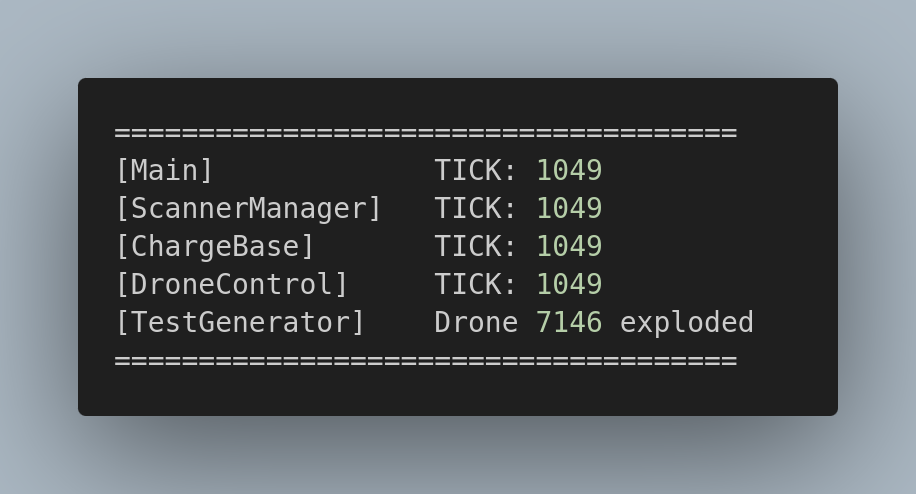
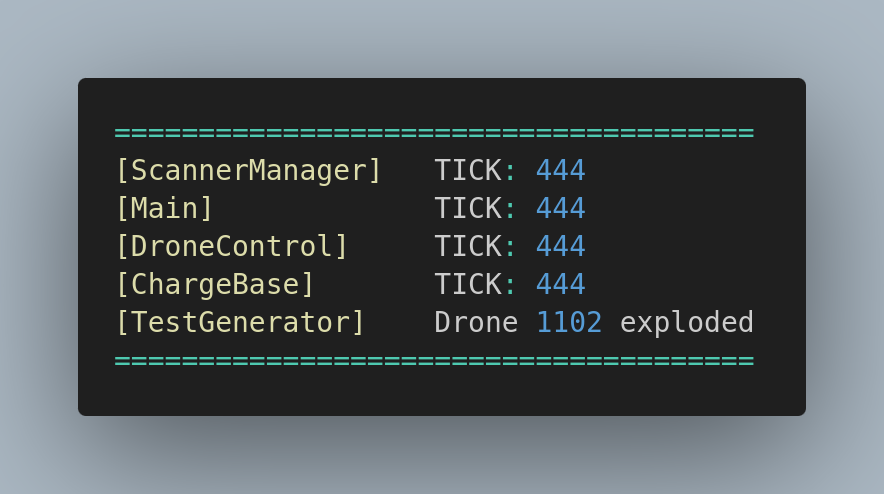
Update Relazione.md
- Add images
- Fix some typos

diff --git a/res/doc/Relazione.md b/res/doc/Relazione.md
@@ -3,71 +3,66 @@
 - [Indice](#indice)
 - [DroneControlSystem](#dronecontrolsystem)
 - [Descrizione generale](#descrizione-generale)
-	- [Fini del sistema](#fini-del-sistema)
-	- [Modello concettuale ed illustrazione del sistema](#modello-concettuale-ed-illustrazione-del-sistema)
-		- [Modello concettuale del sistema](#modello-concettuale-del-sistema)
-		- [Struttura dell'area sorvegliata](#struttura-dellarea-sorvegliata)
-		- [Stati del sistema](#stati-del-sistema)
-		- [Stati di guasto dei droni e TestGenerator](#stati-di-guasto-dei-droni-e-testgenerator)
-		- [Visualizzare il sistema](#visualizzare-il-sistema)
-			- [Area da sorvegliare](#area-da-sorvegliare)
-			- [To starting line](#to-starting-line)
-			- [Working](#working)
-			- [To base](#to-base)
-			- [Contesto del sistema](#contesto-del-sistema)
+  - [Fini del sistema](#fini-del-sistema)
+  - [Modello concettuale ed illustrazione del sistema](#modello-concettuale-ed-illustrazione-del-sistema)
+    - [Modello concettuale del sistema](#modello-concettuale-del-sistema)
+    - [Struttura dell'area sorvegliata](#struttura-dellarea-sorvegliata)
+    - [Stati del sistema](#stati-del-sistema)
+    - [Stati di guasto dei droni e TestGenerator](#stati-di-guasto-dei-droni-e-testgenerator)
+    - [Visualizzare il sistema](#visualizzare-il-sistema)
+      - [Area da sorvegliare](#area-da-sorvegliare)
+      - [To starting line](#to-starting-line)
+      - [Working](#working)
+      - [To base](#to-base)
+      - [Contesto del sistema](#contesto-del-sistema)
 - [User requirements](#user-requirements)
-	- [Use case utente](#use-case-utente)
+  - [Use case utente](#use-case-utente)
 - [System requirements](#system-requirements)
-	- [Architectural system diagram](#architectural-system-diagram)
-	- [Activity diagram creazione Wave e droni](#activity-diagram-creazione-wave-e-droni)
-	- [State diagram Drone](#state-diagram-drone)
-	- [Message sequence chart diagram carica Drone](#message-sequence-chart-diagram-carica-drone)
-- [Monitors](#monitors)
-		- [WaveCoverageMonitor](#wavecoveragemonitor)
-		- [AreaCoverageMonitor](#areacoveragemonitor)
-		- [Drone Charge](#drone-charge)
-		- [Drone Recharge](#drone-recharge)
-		- [System Performance](#system-performance)
+  - [Architectural system diagram](#architectural-system-diagram)
+  - [Activity diagram creazione Wave e droni](#activity-diagram-creazione-wave-e-droni)
+  - [State diagram Drone](#state-diagram-drone)
+  - [Message sequence chart diagram carica Drone](#message-sequence-chart-diagram-carica-drone)
+- [Monitors](#monitors) - [WaveCoverageMonitor](#wavecoveragemonitor) - [AreaCoverageMonitor](#areacoveragemonitor) - [Drone Charge](#drone-charge) - [Drone Recharge](#drone-recharge) - [System Performance](#system-performance)
 - [Implementation](#implementation)
-	- [Implementazione software](#implementazione-software)
-	- [_Outsourcing_](#outsourcing)
-	- [Implementare il sistema](#implementare-il-sistema)
-		- [Componente ChargeBase](#componente-chargebase)
-		- [Componente ScannerManager](#componente-scannermanager)
-		- [Componente DroneControl](#componente-dronecontrol)
-		- [Componente Drone](#componente-drone)
-		- [Componente Wave](#componente-wave)
-		- [Componente TestGenerator](#componente-testgenerator)
-		- [Componente Database](#componente-database)
-		- [Altre componenti](#altre-componenti)
-			- [Componente Main](#componente-main)
-	- [Schema del Database](#schema-del-database)
-		- [Tab `drone_logs`](#tab-drone_logs)
-		- [Tab `wave_coverage_logs`](#tab-wave_coverage_logs)
-		- [Tab `area_coverage_logs`](#tab-area_coverage_logs)
-		- [Tab `system_performance_logs`](#tab-system_performance_logs)
-		- [Tab `drone_charge_logs`](#tab-drone_charge_logs)
-		- [Tab `drone_recharge_logs`](#tab-drone_recharge_logs)
-	- [Connessioni Redis](#connessioni-redis)
+  - [Implementazione software](#implementazione-software)
+  - [_Outsourcing_](#outsourcing)
+  - [Implementare il sistema](#implementare-il-sistema)
+    - [Componente ChargeBase](#componente-chargebase)
+    - [Componente ScannerManager](#componente-scannermanager)
+    - [Componente DroneControl](#componente-dronecontrol)
+    - [Componente Drone](#componente-drone)
+    - [Componente Wave](#componente-wave)
+    - [Componente TestGenerator](#componente-testgenerator)
+    - [Componente Database](#componente-database)
+    - [Altre componenti](#altre-componenti)
+      - [Componente Main](#componente-main)
+  - [Schema del Database](#schema-del-database)
+    - [Tab `drone_logs`](#tab-drone_logs)
+    - [Tab `wave_coverage_logs`](#tab-wave_coverage_logs)
+    - [Tab `area_coverage_logs`](#tab-area_coverage_logs)
+    - [Tab `system_performance_logs`](#tab-system_performance_logs)
+    - [Tab `drone_charge_logs`](#tab-drone_charge_logs)
+    - [Tab `drone_recharge_logs`](#tab-drone_recharge_logs)
+  - [Connessioni Redis](#connessioni-redis)
 - [Risultati Sperimentali](#risultati-sperimentali)
-	- [Correttezza del sistema \[?\]](#correttezza-del-sistema-)
-		- [Avvio del sistema](#avvio-del-sistema)
-		- [Vita completa dei droni](#vita-completa-dei-droni)
-	- [TestGenerator comparato a DB](#testgenerator-comparato-a-db)
-		- [Scenario _Everything is fine_](#scenario-everything-is-fine)
-		- [Scenario _Drone failure_](#scenario-drone-failure)
-		- [Scenario _High consumption_](#scenario-high-consumption)
-		- [Scenario _Charge rate mulfunction_](#scenario-charge-rate-mulfunction)
-		- [Scenario _Connection lost_](#scenario-connection-lost)
-	- [Monitor](#monitor)
-		- [Copertura dell'area](#copertura-dellarea)
-		- [Consumo anomalo](#consumo-anomalo)
-		- [Ricarica anomala](#ricarica-anomala)
-		- [Performance del sistema](#performance-del-sistema)
+  - [Correttezza del sistema \[?\]](#correttezza-del-sistema-)
+    - [Avvio del sistema](#avvio-del-sistema)
+    - [Vita completa dei droni](#vita-completa-dei-droni)
+  - [TestGenerator comparato a DB](#testgenerator-comparato-a-db)
+    - [Scenario _Everything is fine_](#scenario-everything-is-fine)
+    - [Scenario _Drone failure_](#scenario-drone-failure)
+    - [Scenario _High consumption_](#scenario-high-consumption)
+    - [Scenario _Charge rate mulfunction_](#scenario-charge-rate-mulfunction)
+    - [Scenario _Connection lost_](#scenario-connection-lost)
+  - [Monitor](#monitor)
+    - [Copertura dell'area](#copertura-dellarea)
+    - [Consumo anomalo](#consumo-anomalo)
+    - [Ricarica anomala](#ricarica-anomala)
+    - [Performance del sistema](#performance-del-sistema)
 
 # DroneControlSystem
 
-_DroneControlSystem_ è un progetto simulante un sistema di sorveglianza basato su droni volanti che monitorano un'area di $6×6\\mathrm{Km}$.
+_DroneControlSystem_ è un progetto simulante un sistema di sorveglianza basato su droni volanti che monitorano un'area di $6×6\ \mathrm{Km}$.
 
 Il sistema è sviluppato come progetto d'esame per [Ingegneria del software](https://corsidilaurea.uniroma1.it/it/view-course-details/2023/29923/20190322090929/1c0d2a0e-d989-463c-a09a-00b823557edd/8e637351-4a3a-47a1-ab11-dfe4ad47e446/4f7bd2b2-2f8e-4c38-b15f-7f3c310550b6/8bcc378c-9ff1-4263-87b7-04a394485a9f?guid_cv=8e637351-4a3a-47a1-ab11-dfe4ad47e446&current_erogata=1c0d2a0e-d989-463c-a09a-00b823557edd), corso tenuto dal prof [Enrico Tronci](https://corsidilaurea.uniroma1.it/it/users/enricotronciuniroma1it) a [La Sapienza](https://www.uniroma1.it/), ed è basato sul progetto gentilmente proposto dal prof nel `main.pdf` [qui](https://drive.google.com/drive/folders/15HrKGosqsuBBe8qWCm1qB_PvIbRLohqZ), al punto _4.2 Controllo formazione droni_.
 
@@ -107,10 +102,12 @@ La **`ChargeBase`** è l'unico punto dell'intera area in cui i droni si trovano 
 
 L'area da sorvegliare è un quadrato di $6\times6\mathrm{\ Km}$ $(36\ \mathrm{Km^2})$, suddiviso in una griglia regolare composta da quadrati di lato $20\mathrm{m}$ ciascuno. La griglia ha quindi $300$ righe e $300$ colonne, ed un totale di $90.000$ quadrati.
 
-Partendo dalla richiesta della traccia abbiamo pensato di vedere questi quadrati come delle _celle_ con al proprio centro il punto da verificare per il drone. Quest'ultimo condivide infatti l'istante di tempo $t$ in cui è coperto con ogni altro punto nella cella, facendo sì che al passaggio del drone sul punto al $t$-esimo istante di tempo, l'intera area del quadrato della griglia risulti simultaneamente coperta - dove il tempo è rappresentato, nel nostro sistema, da un'unità di tempo chiamata `tick` (un tick equivale ad un numero preciso di secondi che vedremo dopo).
+Partendo dalla richiesta della traccia abbiamo pensato di vedere questi quadrati come delle _celle_ con al proprio centro il punto da verificare per il drone. Quest'ultimo condivide infatti l'istante di tempo $t$ in cui è coperto con ogni altro punto nella cella, facendo sì che al passaggio del drone sul punto al $t$-esimo istante di tempo, l'intera area del quadrato della griglia risulti simultaneamente coperta - dove il tempo è rappresentato, nel nostro sistema, da un'unità di tempo chiamata `tick` (un tick equivale a $2.4\ \mathrm{s}$).
 Chiamiamo quindi `starting_line` la colonna di celle coincidenti col lato sinistro dell'area.
 
 Per rispettare il requisito di sorveglianza di ogni punto almeno ogni $5$ minuti, raggruppiamo i droni in gruppi di $300$ che chiamiamo **onde**. Una volta formata l'onda, questa parte dalla base verso la `starting_line`, ovviamente i droni si muoveranno in diagonale e quindi non tutti arriveranno alla `starting_line` allo stesso istante.
+
+È importante considerare che i primi $212$ sono quelli in cui i droni raggiungono la `starting_line`, e non sono dedicati alla verifica dei punti.
 
 Quando ogni drone è arrivato alla `starting_line`, l'onda parte col sorvegliare l'area. Questo processo si ripete ogni cinque minuti. È importante notare come il momento in cui l'ultimo drone della nuova onda arriva alla `starting_line` coincide col momento in cui l'onda precedente avrà lavorato per esattamente cinque minuti.
 
@@ -137,7 +134,7 @@ Facciamo ora ordine circa i possibili stati di un drone:
    Quando un drone/onda (possiamo usare i termini in maniera intercambiabile, perché il movimento di un drone è equivalente a quello di un'onda) raggiunge il lato destro dell'area, termina il suo lavoro di verifica dei punti copertura dell'area, e passa allo stato `TO_BASE`. In questo stato non fa altro che tornare verso il **centro** dell'area per ricaricarsi, ed essere riutilizzato in un nuovo viaggio di copertura.
 
 5. **Ricarica droni (`CHARGING`)**  
-   Giunti alla base, i droni vengono ricaricati da `ChargeBase`. In particolare, esso è composto da slot che accolgono i droni che vengono a ricaricarsi - uno slot per drone. Il tempo di ricarica, come richiesto dal requisito di progetto, ha una durata nell'intervallo di $[2,3]\ h$ (questo valore è rigenerato ad ogni nuova ricarica del drone).
+   Giunti alla base, i droni vengono ricaricati da `ChargeBase`. In particolare, esso è composto da slot che accolgono i droni che vengono a ricaricarsi - uno slot per drone. Il tempo di ricarica, come richiesto dal requisito di progetto, ha una durata nell'intervallo di $[2,3]\ h$ (questo valore è rigenerato ad ogni nuova ricarica del drone), che corrispondono rispettivamente a $3000$ e $4500$ tick.
 
 6. **Attesa in base (`IDLE`)**  
    A carica completa (e non prima), i droni sono messi a disposizione di `ScannerManager` per essere riusati nel creare una nuova onda.
@@ -892,51 +889,61 @@ Eccole qui elencate:
 
 Per verificare il corretto funzionamento del sistema, abbiamo tenuto conto di diversi parametri, e osservato i dati di diverse simulazioni. Prendendo in esame una delle simulazioni più rappresentative, ossia una di quelle in cui si verifichino tutti gli scenari del TestGenerator, abbiamo constatato, comparando l'output del sistema/monitor coi dati nel DB, in primis la correttezza delle informazioni visualizzate ambo i lati, e poi quanto e come il sistema performasse.
 
-## Correttezza del sistema [?]
+## Correttezza del sistema
 
 ### Avvio del sistema
 
-avvio e qualche tick
+Quando avviamo il sistema i componenti princiapli vengono creati e sincronizzati tra loro per poter avviare la simulazione. Successivamente, dopo la connessione al Database e alla creazione dell'onda, ci troviamo di fronte alla vista dei tick che scorrono ad indicare l'avvenuto avvio della simulazione.
 
-<img src="../med/log/00_system_start.png" alt="alt text" style="zoom: 50%;" />
+<img src="../med/log/00_system_start.png" alt="syst_start" style="zoom: 50%;" />
 
 ### Vita completa dei droni
 
 Di seguito verifichiamo che il sistema faccia funzionare correttamente i droni, infatti per un determinato drone possiamo osservare la presenza di tutti i suoi stati a partire da `To_Starting_Line`, che indica una suo corretto "avviamento", fino a `Charging`, che indica come il drone sia riuscito o ritornare alla base ed a iniziare il processo di ricarica (e l'eventuale `Charging_Completed`).
 
+<img src="../med/db/drone_to_line.png" alt="drone_to_line"/>
+
+<img src="../med/db/drone_ready-wrk.png" alt="drone_to_line"/>
+
+<img src="../med/db/drone_to_base.png" alt="drone_to_line"/>
+
+<img src="../med/db/drone_chrg.png" alt="drone_to_line"/>
+
 ## TestGenerator comparato a DB
 
-Di seguito osserviamo come nel DB siano stati inseriti i dati di interesse. Poniamo l'attenzione su ogni sequenza di avvenimenti in cui il `TestGenerator` ha generato uno scenario (che non fosse _Everything is fine_), l'output della shell lo ha stampato a video, e il sistema ha scritto nelle opportune tabelle del DB i giusti valori che rispecchiassero l'accaduto.
+Osserviamo adesso come nel DB siano stati inseriti i dati di interesse. Poniamo l'attenzione su ogni sequenza di avvenimenti in cui il `TestGenerator` ha generato uno scenario (che non fosse _Everything is fine_), l'output della shell lo ha stampato a video, e il sistema ha scritto nelle opportune tabelle del DB i giusti valori che rispecchiassero l'accaduto.
 
 ### Scenario _Everything is fine_
 
 Scenario di default in cui tutto funziona senza anomalie. Viene impostato come funzione vuota per il 20% del valore della mappa.
 Per vedere che si sia verificato basta guardare l'output loggato di `drone_logs` in cui i tick si succedono normalmente.
 
-|<img src="../med/log/01_every_is_fine.png" style="zoom: 27%;">|<img src="../med/db/01_every_is_fine.png" style="zoom: 63%;">|
-|-|-|
+| <img src="../med/log/01_every_is_fine.png" style="zoom: 27%;"> | <img src="../med/db/every_is_fine.png" style="zoom: 63%;"> |
+| -------------------------------------------------------------- | ------------------------------------------------------------- |
 
 ### Scenario _Drone failure_
 
-Viene selezionato un drone casuale che "esplode" (o cessa di funzionare). Il suo stato viene impostato su "DEAD" e viene inviato un messaggio a `ScannerManager` per aggiornare il suo stato.
-Confrontiamo l'output del terminale con le tabelle _tab1_ e _tab2_ nel DB
+Viene selezionato un drone casuale che "esplode" (o cessa di funzionare). Il suo stato viene impostato su `DEAD` da `ScannerManager`.
 
-| <img src="../med/log/02_drone_exploded.png" style="zoom: 60%;"> | <img src="../med/db/02_drone_exploded.png" style="zoom : 103%;"> |
+| <img src="../med/log/02_drone_exploded.png" style="zoom: 60%;"> | <img src="../med/db/drone_exploded.png" style="zoom : 103%;"> |
 | --------------------------------------------------------------- | ---------------------------------------------------------------- |
+
 
 ### Scenario _High consumption_
 
-Viene scelto un drone casuale e viene aumentato il suo consumo di energia (tra 1.5 e 2 volte rispetto al normale). Un messaggio viene inviato a `ScannerManager` per impostare il fattore di consumo elevato del drone.
+Viene scelto un drone casuale e viene aumentato il suo consumo di energia (tra 1.5 e 2 volte rispetto al normale). `ScannerManager` imposta perciò il fattore di consumo elevato del drone.
 
-| <img src="../med/log/02_drone_exploded.png" style="zoom: 60%;"> | <img src="../med/db/02_drone_exploded.png" style="zoom : 103%;"> |
-| --------------------------------------------------------------- | ---------------------------------------------------------------- |
+| <img src="../med/log/03_drone_high_cons.png"> | <img src="../med/db/drone_exploded.png"> |
+| --------------------------------------------- | ---------------------------------------- |
 
-### Scenario _Charge rate mulfunction_
+<img src="../med/db/drone_charge_mon.png">
+
+### Scenario _Charge rate malfunction_
 
 Viene scelto un drone casuale dalla lista `charging_drones` in Redis e viene aumentato il suo rate di carica. Un messaggio viene inviato alla `ChargeBase` per impostare il fattore di carica.
 
-| <img src="../med/log/02_drone_exploded.png" style="zoom: 60%;"> | <img src="../med/db/02_drone_exploded.png" style="zoom : 103%;"> |
-| --------------------------------------------------------------- | ---------------------------------------------------------------- |
+<img src="../med/log/07_drone_recharge_mon.png"> 
+<img src="../med/db/drone_recharge_mon.png">
 
 ### Scenario _Connection lost_
 
@@ -946,25 +953,31 @@ Lo scenario **Connection_lost** comporta due sotto-scenari:
 
 2. **Drone si riconnetterà**: se la probabilità di riconnessione è del 70% o superiore, il drone verrà riconnesso dopo un certo numero di tick, calcolato casualmente (usando `reconnect_tick`). Anche in questo caso, un messaggio a `ScannerManager` aggiorna lo stato del drone su "DISCONNECTED" con il tempo di riconnessione impostato.
 
-| <img src="../med/log/02_drone_exploded.png" style="zoom: 60%;"> | <img src="../med/db/02_drone_exploded.png" style="zoom : 103%;"> |
-| --------------------------------------------------------------- | ---------------------------------------------------------------- |
+<img src="../med/log/05_drone_reconn.png">
+<img src="../med/db/drone_reconn_mon.png">
 
 ## Monitor
+
 Andando più sul concreto, iniziamo a snocciolare qualche dato, partendo dai monitor e dalla loro osservazione.
 
 ### Copertura dell'area
-Per quanto riguarda la verifica dei punti dell'area, i due monitor [WaveCoverageMonitor](#wavecoveragemonitor) e [AreaCoverageMonitor](#areacoveragemonitor) ci permettono di verificare la corretta copertura dell'area.
 
-È importante considerare che i primi _[inserire numero di tick]_  tick l'area non può essere verificata, questo perché inizialmente i droni devono partire dalla base e raggiungere la `starting_line` per poter poi effettivamente iniziare il processo di verifica, e quindi i primi _[inserire numero di tick]_ tick non saranno mai riportati dal monitor.  
+Per quanto riguarda la verifica dei punti dell'area, i due monitor [WaveCoverageMonitor](#wavecoveragemonitor) e [AreaCoverageMonitor](#areacoveragemonitor) ci permettono di verificare la corretta copertura dell'area.
 
 Inoltre, fino a quando la prima onda non avrà terminato di lavorare, [AreaCoverageMonitor](#areacoveragemonitor) riporterà la mancata copertura su quei punti non acora verificati da questa prima ondo.
 
-Per questa esecuzione del sistema che abbiamo deciso di analizzare, possiamo osservare come, a causa dell'input ricevuto da TestGenerator, il drone _[Inserire drone id]_ abbia smesso di funzionare correttamente; quindi il monitor [WaveCoverageMonitor](#wavecoveragemonitor) giustamente riporta che dal tick _[inserire tick]_ al tick _[inserire tick]_ l'onda _[inserire wave id]_ abbia avuto un drone che ha mancato la verifica dei propri punti.
+Per questa esecuzione del sistema che abbiamo deciso di analizzare, possiamo osservare come, a causa dell'input ricevuto da TestGenerator, il drone $1102$ abbia smesso di funzionare correttamente; quindi il monitor [WaveCoverageMonitor](#wavecoveragemonitor) giustamente riporta che dal tick $387$ al tick $636$ l'onda $1$ abbia avuto un drone che ha mancato la verifica dei propri punti.
+
+<img src="../med/log/02_drone_exploded.png">
+<img src="../med/db/drone_exploded1102.png">
+<img src="../med/db/drone_expl_mon_start.png">
+<img src="../med/db/drone_expl_mon_end.png">
 
 _[TODO trovare un caso in cui il drone stava WORKING e poi va in DISCONNECTED e poi RECONNECTED...altrimenti ciccia]_  
 In particolare possiamo analizziamo cosa è successo al drone _[inserire drone id]_, in questo caso specifico il drone si è disconnesso e poi riconnesso mentre era nello stato WORKING. Infatti, vengono riportati dal monitor come tick con mancata verifica del punto solo i tick _[inserire range di tick]_ dove il drone effettivamente non ha riportato la copertura dei sui punti.
 
 ### Consumo anomalo
+
 Come già esposto precedentemente, il TestGenerator può scegliere non solo quale drone avrà un consumo elevato, ma anche di quanto sarà più alto.
 
 Nel nostro caso il _[drone id]_ è stato scelto e come riportato dal monitor [ChargeDroneMonitor](#drone-charge) il drone ha avuto un consumo medio a tick di _[consumption per tick]_ con un fattore di _[consumptio factor]_, rispetto ad un consumo normale. Ovviamente il fattore scelto dal TestGenerator risulta più alto rispetto a quello riportato dal monitor, questo perchè il drone ha avuto un numero significato di tick per cui il suo consumo non è stato anomalo, andando quindi ad abbassare il valore medio del suo fattore di consumo.
@@ -972,6 +985,15 @@ Nel nostro caso il _[drone id]_ è stato scelto e come riportato dal monitor [Ch
 Ci potrebbero essere casi in cui il drone nonostante il suo consumo anomale riesce a tornare alla base. Questo è il caso del drone _[drone id]_, infatti il monitor riporta il suo consumo elevato ma anche il fatto che è riuscito a tornare alla base.
 
 ### Ricarica anomala
+Nel caso in cui un drone abbia un malfunzionamento durante la fase di ricarica, il monitor [RechargeTimeMonitor](#drone-recharge) riporterà un'anomalia nel tempo di ricarica. Ad esempio, il drone $4107$ ha avuto un tempo di ricarica fuori dal range prestabilito di $[2,3]\ h$ (la sua ricarica è durata $4669$ tick), il monitor registra il numero di tick e i minuti effettivi impiegati per la ricarica. Questo permette di identificare eventuali problemi nel processo di ricarica.
+
+<img src="../med/log/07_drone_recharge_mon.png">
+<img src="../med/db/drone_recharge_mon.png">
 
 ### Performance del sistema
-Come riportato dai monitor della copertura, alcuni droni (e quindi onde) non hanno correttamente verificato alcuni punti dell'area. Per questo [SystemPerformanceMonitor](#system-performance) ha riportato che per alcuni tick, come il _[tick]_, un valore percentuale delle performace sotto il 100%, indicando che per quel tick non tutti i droni "a lavoro" hanno effettuato il loro compito di copertura.
+
+Come riportato dai monitor della copertura, alcuni droni (e quindi onde) non hanno correttamente verificato alcuni punti dell'area. Per questo [SystemPerformanceMonitor](#system-performance) ha riportato che per alcuni tick, come il $460$, un valore percentuale delle performace sotto il 100%, indicando che per quel tick non tutti i droni "a lavoro" hanno effettuato il loro compito di copertura.
+
+<img src="../med/log/02_drone_exploded.png">
+<img src="../med/db/drone_perf_mon.png">
+<img src="../med/db/drone_wv_perf_mon.png">
